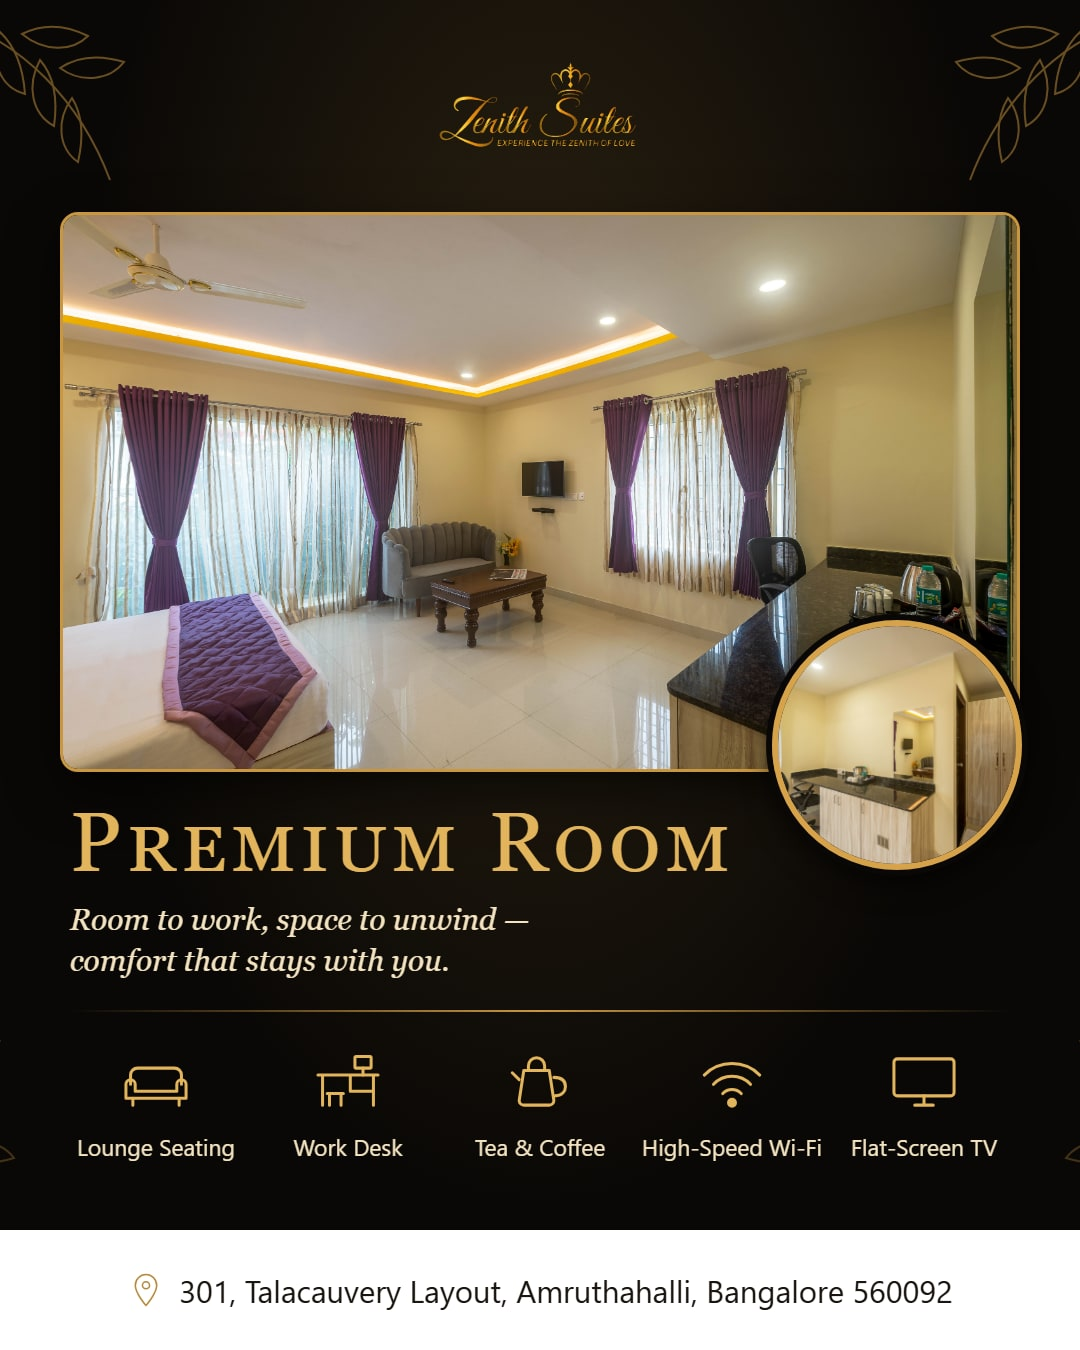
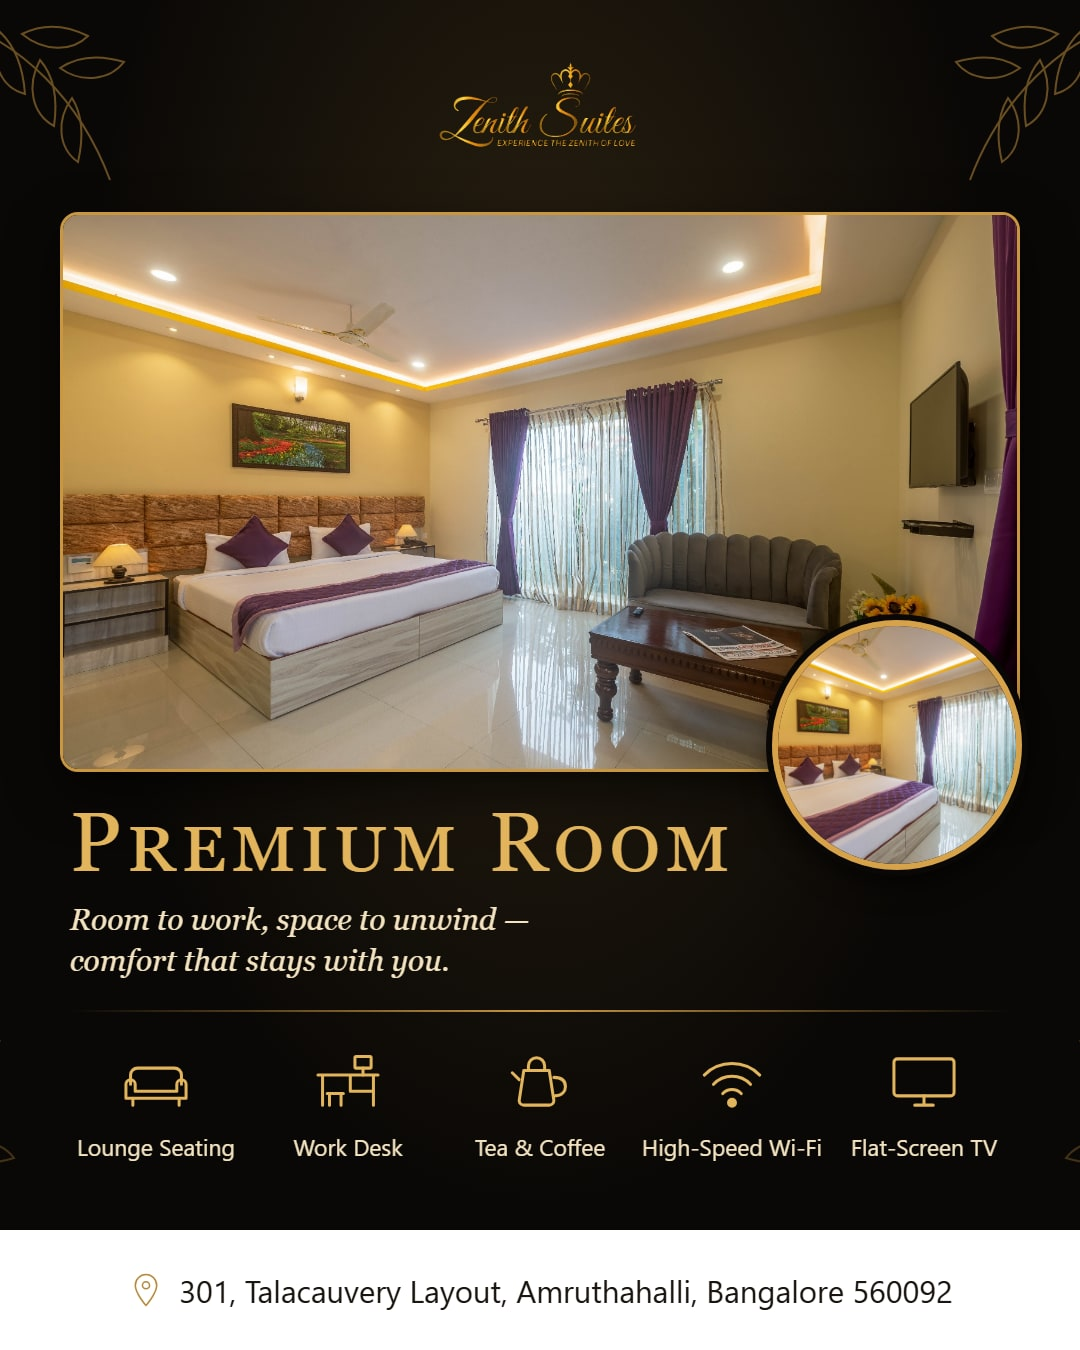
Drafts page: edits save as you type, approve/reject in place (scroll kept), send date on each card, Note for AI on ticked drafts; edit_draft MCP tool; new Premium Room poster

Changed region(s): [[0.0611, 0.1556, 0.9472, 0.6533]]

diff --git a/public/app.js b/public/app.js
@@ -1601,7 +1601,8 @@
       h('div', { style: `color:${retrying ? 'inherit' : 'var(--bad)'};font-size:13px` }, retrying ? '🔁 ' : '⚠ ', err),
       todo ? h('div', { style: 'font-size:12px;margin-top:3px' }, h('b', {}, 'What to do: '), todo) : null);
   };
-  async function viewOutbox() {
+  async function viewOutbox({ keepScroll = false } = {}) {
+    const scrollY = keepScroll ? document.querySelector('main')?.scrollTop || 0 : 0;
     const tab = state.outboxTab || 'draft';
     if (!state.accounts.length) await loadAccounts();
     const help = await metaHelpTable();
@@ -1647,11 +1648,49 @@
     const moveTo = async (ids, to) => {
       const r = await api('/api/outbox/move', { body: { ids, account: to } });
       toast(r.moved ? `Moved ${r.moved} to ${r.toLabel}${r.approved ? ` — ${r.approved} go out from there by themselves` : ''}${r.drafts ? ` — ${r.drafts} drafts still need your approval` : ''}${r.kept ? ` — ${r.kept} stayed: a Meta API number can only send them a template` : ''}` : 'Nothing to move: they are already on that number');
-      viewOutbox();
+      viewOutbox({ keepScroll: true });
+    };
+    const later = (r) => r.scheduled_at && new Date(r.scheduled_at) - Date.now() > 60000;
+    const whenLong = (t) => new Date(t).toLocaleString([], { weekday: 'short', day: 'numeric', month: 'short', year: new Date(t).getFullYear() === new Date().getFullYear() ? undefined : 'numeric', hour: '2-digit', minute: '2-digit' });
+    const dueTag = (r) => (!['draft', 'queued'].includes(r.status) ? null
+      : later(r)
+        ? h('div', { class: 'tag', style: 'margin:4px 0;background:var(--accent-soft);color:var(--ink)', title: 'Approving does not send it early — it waits until this time' },
+            '🕒 Goes out ', h('b', {}, whenLong(r.scheduled_at)), r.status === 'draft' ? ' — approving now keeps this date' : ' (approved, waiting)')
+        : h('div', { class: 'tag', style: 'margin:4px 0' }, r.status === 'draft' ? '⚡ Goes out soon after you approve (within sending hours)' : '⚡ Next in line (within sending hours)'));
+    const done = (card, r, text) => {
+      // replace just this card: the list, the other cards' edits and the scroll position stay as they are
+      card.replaceChildren(h('div', { class: 'row', style: 'align-items:center' }, h('b', { class: 'grow' }, r.to_name || '+' + r.to_jid.split('@')[0]), h('span', { class: 'muted' }, text)));
+      card.style.opacity = '.6';
+      const i = boxes.findIndex(([, id]) => id === r.id);
+      if (i >= 0) { boxes.splice(i, 1); sel.delete(r.id); refreshSel(); }
+      if (r.status === 'draft' && state.draftsCount) {
+        state.draftsCount--;
+        document.querySelectorAll('.badge').forEach((b) => { if (/^\d+$/.test(b.textContent)) b.textContent = state.draftsCount || ''; });
+      }
     };
     const items = rows.map((r) => {
       const ta = h('textarea', { rows: 3, value: r.payload.text || r.payload.attachment?.caption || '', readonly: !!r.payload.waTemplate,
         title: r.payload.waTemplate ? 'Meta template wording is fixed by Meta' : undefined });
+      const saved = h('span', { class: 'muted', style: 'font-size:12px;align-self:center' });
+      if (r.status === 'draft' && !r.payload.waTemplate) {
+        // edits are saved as you type, so approving another draft (or reloading) never loses them
+        let timer = null;
+        let last = ta.value;
+        const save = async () => {
+          clearTimeout(timer);
+          if (ta.value === last || !ta.value.trim()) return;
+          const text = ta.value;
+          saved.textContent = 'Saving…';
+          try {
+            await api(`/api/outbox/${r.id}`, { method: 'PATCH', body: { text } });
+            last = text;
+            saved.textContent = '✓ Saved';
+          } catch (e) { saved.textContent = '⚠ Not saved: ' + e.message; }
+        };
+        ta.addEventListener('input', () => { saved.textContent = 'Editing…'; clearTimeout(timer); timer = setTimeout(save, 800); });
+        ta.addEventListener('blur', save);
+        r.saveNow = save;
+      }
       let cb = null;
       if (movable(r)) {
         cb = h('input', { type: 'checkbox', 'aria-label': `Select ${r.to_name || r.to_jid.split('@')[0]}`, onchange: (e) => { if (e.target.checked) sel.add(r.id); else sel.delete(r.id); refreshSel(); } });
@@ -1663,7 +1702,7 @@
             await moveTo([r.id], e.target.value);
           }) }, accountOptions(r.account_id))
         : h('span', { class: 'tag', title: 'Sent from this number' }, 'From: ' + labelOf(r.account_id));
-      return h('div', { class: 'card' },
+      const card = h('div', { class: 'card' },
         h('div', { class: 'row', style: 'align-items:center' },
           cb,
           h('b', { class: 'grow' }, r.to_name || '+' + r.to_jid.split('@')[0]),
@@ -1675,6 +1714,7 @@
           : r.price_category === 'service' && r.window_closes_at && ['draft', 'queued'].includes(r.status)
             ? h('div', { class: 'tag', style: `margin:4px 0;${new Date(r.window_closes_at) - Date.now() < 4 * 3600e3 ? 'background:var(--warn-soft);color:var(--ink)' : ''}` }, '⏳ Free until ', new Date(r.window_closes_at).toLocaleString([], { weekday: 'short', hour: '2-digit', minute: '2-digit' }), ' — after that it cannot be sent as text')
             : null,
+        dueTag(r),
         r.note ? h('p', { class: 'muted', style: 'margin:6px 0' }, 'Why: ', r.note) : null,
         r.payload.waTemplate ? h('p', { style: 'margin:6px 0' }, h('span', { class: 'tag' }, `Meta template: ${r.payload.waTemplate.name}`)) : null,
         r.preview_image ? h('a', { href: r.preview_image.startsWith('data:') ? undefined : r.preview_image, target: '_blank', rel: 'noopener', title: 'Image the person will receive' },
@@ -1682,18 +1722,25 @@
         r.payload.attachment ? h('p', { class: 'muted', style: 'margin:6px 0' }, '📎 ', r.payload.attachment.fileName || r.payload.attachment.url || 'file') : null,
         r.status === 'draft'
           ? h('div', {}, ta, h('div', { class: 'row', style: 'margin-top:8px' },
-              h('button', { class: 'btn primary small', onclick: guard(async () => { await api(`/api/outbox/${r.id}/approve`, { body: r.payload.waTemplate ? {} : { text: ta.value } }); toast('Approved — queued'); viewOutbox(); }) }, 'Approve & send'),
+              h('button', { class: 'btn primary small', onclick: guard(async () => {
+                const u = await api(`/api/outbox/${r.id}/approve`, { body: r.payload.waTemplate ? {} : { text: ta.value } });
+                const msg = later(u) ? `✅ Approved — goes out ${whenLong(u.scheduled_at)}` : '✅ Approved — sending soon';
+                toast(msg);
+                done(card, r, msg);
+              }) }, later(r) ? 'Approve (sends on its date)' : 'Approve & send'),
               h('button', { class: 'btn small danger', title: 'Reject — you can say why, so the AI does better next time', onclick: guard(async () => {
                 const reason = prompt('Reject this draft. Why? (optional — the AI reads this before drafting for this person again)', '');
                 if (reason === null) return;
                 await api(`/api/outbox/${r.id}/reject`, { body: { reason } });
-                viewOutbox();
-              }) }, 'Reject')))
+                done(card, r, '✖ Rejected');
+              }) }, 'Reject'),
+              saved))
           : h('div', {}, h('p', { style: 'white-space:pre-wrap;margin:6px 0' }, r.payload.text || r.payload.attachment?.caption || ''),
               errorBox(r.error, help),
-              r.status === 'queued' ? h('button', { class: 'btn small danger', onclick: guard(async () => { await api(`/api/outbox/${r.id}/reject`, { method: 'POST' }); viewOutbox(); }) }, 'Cancel') : null,
+              r.status === 'queued' ? h('button', { class: 'btn small danger', onclick: guard(async () => { await api(`/api/outbox/${r.id}/reject`, { method: 'POST' }); done(card, r, '✖ Cancelled'); }) }, 'Cancel') : null,
               r.sent_at ? h('p', { class: 'muted', style: 'margin:0' }, 'Sent ', new Date(r.sent_at).toLocaleString()) : null),
       );
+      return card;
     });
     const picked = () => rows.filter((r) => sel.has(r.id));
     const moveSel = h('select', { style: 'width:auto' }, h('option', { value: '' }, 'Send from…'), accountOptions(''));
@@ -1720,11 +1767,20 @@ ${nApproved ? `${nApproved} already approved: they go out from ${labelOf(moveSel
           if (!list.length) {
             return toast(sel.size ? 'Those are already approved: queued messages go out by themselves, one by one. Only drafts need approving.' : 'Tick the drafts you want to approve first');
           }
-          if (!confirm(`Approve and send ${list.length} selected drafts as they are?\n\n${paceText(list)}${costText(list)}\n\nThey go out one by one with the random gap, the daily limit and the new-number limit.`)) return;
+          await Promise.all(list.map((x) => x.saveNow?.()));
+          const nLater = list.filter(later).length;
+          if (!confirm(`Approve ${list.length} selected drafts?${nLater ? `\n\n${nLater} of them have a later date and wait until then.` : ''}\n\n${paceText(list)}${costText(list)}\n\nThey go out one by one with the random gap, the daily limit and the new-number limit.`)) return;
           const r = await api('/api/outbox/approve-selected', { body: { ids: list.map((x) => x.id) } });
           toast(`Approved ${r.approved} — queued`);
-          viewOutbox();
+          viewOutbox({ keepScroll: true });
         }) }, 'Approve selected') : null,
+        tab === 'draft' ? h('button', { class: 'btn small', title: 'Tell the AI what to change in the ticked drafts — it edits them and they come back here for your approval', onclick: guard(async () => {
+          if (!sel.size) return toast('Tick the drafts first');
+          const text = prompt(`Note for the AI about the ${sel.size} ticked drafts — what should it change?\n(e.g. "address them as Mr / Ms", "make it shorter", "mention the airport")`, '');
+          if (!text?.trim()) return;
+          const r = await api('/api/outbox/note-for-ai', { body: { ids: [...sel], text } });
+          toast(`Sent to the AI as task #${r.task.id} — it edits the ${r.drafts} drafts; they stay here for your approval`);
+        }) }, '📝 Note for AI') : null,
         h('button', { class: 'btn small danger', onclick: guard(async () => {
           if (!sel.size) return toast('Tick the messages first');
           const reason = prompt(`${tab === 'queued' ? 'Cancel' : 'Reject'} ${sel.size} selected messages? They will not be sent.
@@ -1732,7 +1788,7 @@ Why? (optional — the AI reads it)`, '');
           if (reason === null) return;
           const r = await api('/api/outbox/reject-selected', { body: { ids: [...sel], reason } });
           toast(`${tab === 'queued' ? 'Cancelled' : 'Rejected'} ${r.rejected}`);
-          viewOutbox();
+          viewOutbox({ keepScroll: true });
         }) }, tab === 'queued' ? 'Cancel selected' : 'Reject selected')),
       h('p', { class: 'muted', style: 'margin:8px 0 0;font-size:12px' }, tab === 'queued'
         ? 'Queued messages are already approved and go out by themselves, one at a time. Tick some (or Select all, then untick a few) to move them to another number or cancel them.'
@@ -1741,10 +1797,12 @@ Why? (optional — the AI reads it)`, '');
     const approveAllBar = drafts.length > 1 ? h('div', { class: 'card row', style: 'max-width:820px;margin-bottom:16px;align-items:center' },
       h('span', { class: 'grow' }, `${drafts.length}${rows.length >= 200 ? '+' : ''} drafts${acc ? ' from ' + labelOf(acc) : ''}${state.outboxTask ? ` in task #${state.outboxTask}` : ''}`),
       h('button', { class: 'btn primary', onclick: guard(async () => {
-        if (!confirm(`Approve and send all ${drafts.length} drafts as they are?\n\n${paceText(drafts)}${costText(drafts)}\n\nThey go out one by one with the random gap, the daily limit and the new-number limit. Text you edited below but did not approve is not used.`)) return;
+        await Promise.all(drafts.map((x) => x.saveNow?.()));
+        const nLater = drafts.filter(later).length;
+        if (!confirm(`Approve and send all ${drafts.length} drafts?\n\n${paceText(drafts)}${costText(drafts)}\n\nThey go out one by one with the random gap, the daily limit and the new-number limit. Your edits are saved and used.${nLater ? `\n\n${nLater} have a later date (e.g. festival wishes) — they wait until then.` : ''}`)) return;
         const r = await api('/api/outbox/approve-all', { body: { account: acc || undefined, task: state.outboxTask || undefined } });
         toast(`Approved ${r.approved} — queued`);
-        viewOutbox();
+        viewOutbox({ keepScroll: true });
       }) }, `Approve all ${drafts.length}${rows.length >= 200 ? '+' : ''}`)) : null;
     const statuses = await api(`/api/outbox/status${acc ? '?account=' + encodeURIComponent(acc) : ''}`).catch(() => []);
     const when = (t) => (t ? new Date(t).toLocaleString([], { weekday: 'short', hour: '2-digit', minute: '2-digit' }) : '');
@@ -1770,6 +1828,7 @@ Why? (optional — the AI reads it)`, '');
       bar,
       h('div', { class: 'cards', style: 'grid-template-columns:repeat(auto-fill,minmax(min(380px,100%),1fr))' }, items.length ? items : [h('p', { class: 'muted' }, 'Nothing here.')]),
     ]);
+    if (scrollY) requestAnimationFrame(() => { const m = document.querySelector('main'); if (m) m.scrollTop = scrollY; });
   }
 
   // ---------- settings ----------

diff --git a/src/outbox.js b/src/outbox.js
@@ -332,6 +332,42 @@ async function afterBatchChange(rows) {
   }
 }
 
+/** Save new wording for a draft without approving it (the Drafts page saves as you type). */
+export async function editDraft(id, text) {
+  if (typeof text !== 'string' || !text.trim()) throw new Error('The message is empty');
+  const [row] = await query(`SELECT * FROM outbox WHERE id = $1`, [id]);
+  if (!row) throw new Error('Draft not found');
+  if (row.status !== 'draft') throw new Error(`Item is ${row.status}, not a draft — it can't be edited any more`);
+  if (row.payload.waTemplate) throw new Error('This is a Meta template message — its wording is fixed by Meta');
+  const payload = { ...row.payload };
+  if (payload.attachment && !payload.text) payload.attachment = { ...payload.attachment, caption: text };
+  else payload.text = text;
+  const [u] = await query(`UPDATE outbox SET payload = $2 WHERE id = $1 AND status = 'draft' RETURNING *`, [id, JSON.stringify(payload)]);
+  if (!u) throw new Error('Draft was already handled');
+  return u;
+}
+
+/** The owner's note on several drafts → one card for the AI listing them (it edits or redrafts them; the owner approves). */
+export async function draftsNoteForAi(ids, text, { actor = 'you' } = {}) {
+  const list = [...new Set((ids || []).map(Number).filter(Boolean))];
+  if (!list.length) throw new Error('Select at least one draft');
+  if (!String(text || '').trim()) throw new Error('Write the note first');
+  const rows = await query(`SELECT o.*, c.name AS to_name FROM outbox o LEFT JOIN contacts c ON c.account_id = o.account_id AND c.jid = o.to_jid
+    WHERE o.id = ANY($1::bigint[]) AND o.status = 'draft' ORDER BY o.id`, [list]);
+  if (!rows.length) throw new Error('None of these are drafts any more');
+  const counts = {};
+  for (const r of rows) counts[r.account_id] = (counts[r.account_id] || 0) + 1;
+  const account = Object.entries(counts).sort((x, y) => y[1] - x[1])[0][0];
+  const note = String(text).trim();
+  const lines = rows.map((r) => `- draft #${r.id} on ${r.account_id} to ${r.to_jid.split('@')[0]}${r.to_name ? ` (${r.to_name})` : ''}: "${String(r.payload.text || r.payload.attachment?.caption || '').replace(/\s+/g, ' ').slice(0, 90)}…"`);
+  const task = await createTask({
+    account, kind: 'todo', assignee: 'ai', dueAt: new Date().toISOString(), createdBy: actor,
+    title: `Owner: ${note.replace(/\s+/g, ' ').slice(0, 70)} (${rows.length} drafts)`,
+    details: `${note}\n\nDrafts:\n${lines.join('\n')}\n\nChange each draft as the note asks with edit_draft(id, text) (keeps its picture and send time), or reject_draft + a new draft if it must change more. Leave them as drafts for the owner to approve, then mark this card done.`,
+  });
+  return { drafts: rows.length, task };
+}
+
 export async function reject(id, { reason = '', actor = 'you' } = {}) {
   const [row] = await query(
     `UPDATE outbox SET status = 'rejected' WHERE id = $1 AND status IN ('draft','queued') RETURNING *`,

diff --git a/test/server.test.js b/test/server.test.js
@@ -886,6 +886,19 @@ test('job roles: lists, tasks and log kept separate per role; earlier batches ne
   const [foRow] = await query('SELECT payload FROM outbox WHERE task_id = $1', [foId]);
   assert.equal(foRow.payload.attachment.url, 'https://example.com/poster.jpg', 'list sends can carry one image for everyone');
   assert.match(foRow.payload.text, /^Hi /, 'each person’s message stays as the caption');
+  // Drafts page: edits are saved without approving; the owner's note on ticked drafts becomes an AI card; the AI edits drafts
+  const [foDraft] = await query(`SELECT id FROM outbox WHERE task_id = $1 AND status = 'draft'`, [foId]);
+  assert.equal((await call('PATCH', `/api/outbox/${foDraft.id}`, { text: 'Hello Mr Test, edited' })).data.saved, true);
+  const [edited] = await query('SELECT status, payload FROM outbox WHERE id = $1', [foDraft.id]);
+  assert.equal(edited.status, 'draft', 'saving an edit does not approve it');
+  assert.equal(edited.payload.text, 'Hello Mr Test, edited');
+  assert.equal(edited.payload.attachment.url, 'https://example.com/poster.jpg', 'the picture stays');
+  const note = (await call('POST', '/api/outbox/note-for-ai', { ids: [foDraft.id], text: 'Address them as Mr / Ms' })).data;
+  assert.equal(note.drafts, 1);
+  assert.equal(note.task.assignee, 'ai');
+  assert.match(note.task.details, new RegExp(`draft #${foDraft.id} `));
+  assert.match(await mcp('edit_draft', { id: foDraft.id, text: 'Dear Mr Test, hello' }), /updated — still waiting/);
+  assert.equal((await query('SELECT payload FROM outbox WHERE id = $1', [foDraft.id]))[0].payload.text, 'Dear Mr Test, hello');
   const foTasks = await mcp('list_tasks', { account: 'hire5', role: 'Front office' });
   assert.match(foTasks, /Front office – Batch 1: message 1/);
   assert.ok(!/Chef/.test(foTasks));
@@ -1642,6 +1655,7 @@ test('MCP: every tool answers without an error (whole AI toolbox, in the order a
   const d1 = await run('send_message', { account: 'mcpall', to: P, template: 'Toolbox ask', note: 'ask the day' });
   const d2 = await run('send_message', { account: 'mcpall', to: P, text: 'Kal 11 baje aaiye', schedule_at: '2026-12-09 10:00' });
   await run('list_outbox', { account: 'mcpall', status: 'draft' });
+  await run('edit_draft', { id: idOf(d1), text: 'Namaste Mr Ravi, kab aa sakte hain?' });
   await run('approve_draft', { id: idOf(d1) });
   await run('reject_draft', { id: idOf(d2), reason: 'too early' });
   await manager.create({ id: 'mcpall2', label: 'McpAll2' });

diff --git a/src/mcp.js b/src/mcp.js
@@ -572,6 +572,14 @@ function buildServer(playbook = '') {
     return `#${a.id} rejected.`;
   });
 
+  tool('edit_draft', 'Change the wording of a draft that is still waiting for the owner\'s approval (e.g. after an owner note on the Drafts page). Keeps its picture, number and send time; it stays a draft. For Meta template drafts the wording is fixed — reject and redraft instead.', {
+    id: z.number().int(), text: z.string().min(1).describe('The full new message (or picture caption)'),
+  }, async (a) => {
+    const r = await outbox.editDraft(a.id, a.text);
+    await ai(r.account_id, `Edited draft #${r.id} to ${r.to_jid.split('@')[0]}`);
+    return `Draft #${r.id} updated — still waiting for the owner's approval${new Date(r.scheduled_at) > new Date(Date.now() + 60000) ? ` (goes out ${d(r.scheduled_at)} once approved)` : ''}.`;
+  });
+
   tool(
     'backfill_history',
     'Deep history: pull older messages from the phone chat by chat (50 at a time, paced like scrolling up) for numbers whose initial import was short. Runs in the background for a while (hours for ~1000 chats); progress shows in list_accounts. The phone must stay online.',

diff --git a/src/api.js b/src/api.js
@@ -690,6 +690,17 @@ export function buildApp() {
     }
     res.json(r);
   }));
+  // Owner's note on several drafts → a card for the AI: { ids, text }
+  api.post('/outbox/note-for-ai', wrap(async (req, res) => {
+    const r = await outbox.draftsNoteForAi(idsOf(req), req.body?.text, { actor: 'you' });
+    await act(req, r.task.account_id, `Note for the AI on ${r.drafts} drafts (task #${r.task.id})`);
+    res.json(r);
+  }));
+  // Save a draft's edited wording (Drafts page, as you type): { text }
+  api.patch('/outbox/:id', wrap(async (req, res) => {
+    const r = await outbox.editDraft(req.params.id, req.body?.text);
+    res.json({ id: r.id, saved: true });
+  }));
   api.post('/outbox/:id/approve', wrap(async (req, res) => {
     const r = await outbox.approve(req.params.id, req.body || {});
     await act(req, r.account_id, `Approved draft #${r.id} to ${r.to_jid.split('@')[0]}${req.body?.text ? ' (edited)' : ''}`);
